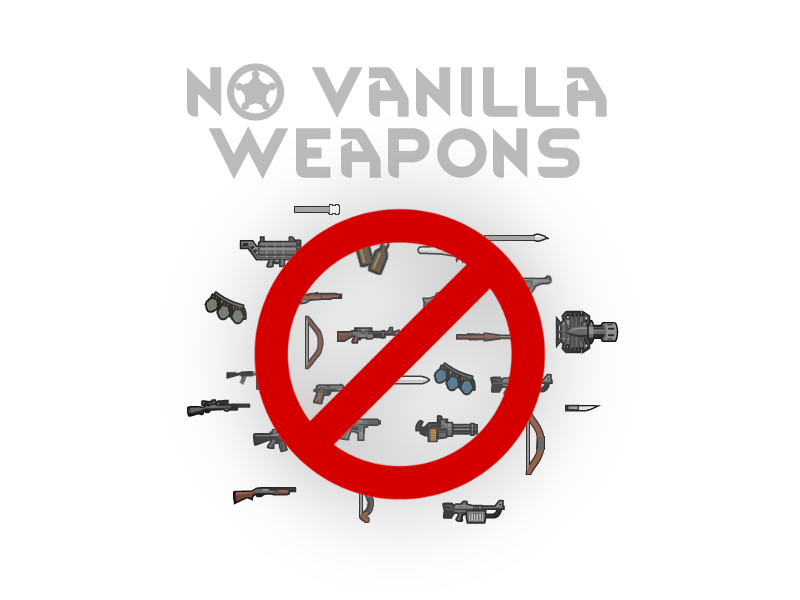
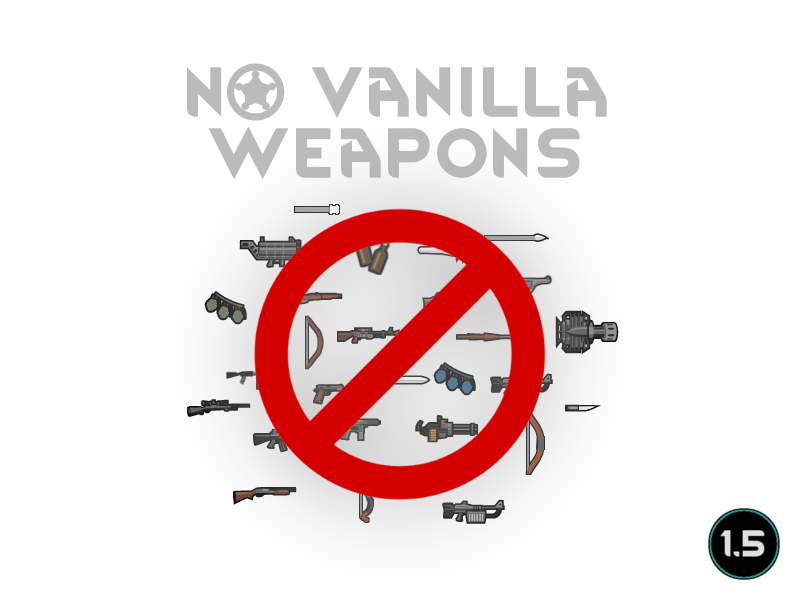
Mod updated for 1.5 and passed autotests

Changed region(s): [[0.875, 0.84, 1.0, 0.99]]

diff --git a/Source/NoVanillaWeapons/NoVanillaWeapons.cs b/Source/NoVanillaWeapons/NoVanillaWeapons.cs
@@ -10,10 +10,10 @@ internal static class NoVanillaWeapons
 {
     static NoVanillaWeapons()
     {
-        var melee = LoadedModManager.GetMod<NoVanillaWeaponsMod>().GetSettings<NoVanillaWeaponsSettings>().Melee;
-        var ranged = LoadedModManager.GetMod<NoVanillaWeaponsMod>().GetSettings<NoVanillaWeaponsSettings>().Ranged;
+        var melee = NoVanillaWeaponsMod.instance.Settings.Melee;
+        var ranged = NoVanillaWeaponsMod.instance.Settings.Ranged;
         var vanillaWeapons = (from ThingDef weapon in DefDatabase<ThingDef>.AllDefsListForReading
-            where weapon is { IsWeapon: true, modContentPack: { IsOfficialMod: true } } &&
+            where weapon is { IsWeapon: true, modContentPack.IsOfficialMod: true } &&
                   (melee || weapon.IsMeleeWeapon != true) && (ranged || weapon.IsRangedWeapon != true) &&
                   !weapon.IsStuff && weapon.weaponTags?.Contains("TurretGun") == false && !weapon.destroyOnDrop
             select weapon).ToList();
@@ -61,7 +61,7 @@ internal static class NoVanillaWeapons
 
         foreach (var weaponRecipe in weaponRecipes)
         {
-            weaponRecipe.factionPrerequisiteTags = new List<string> { "NotForYou" };
+            weaponRecipe.factionPrerequisiteTags = ["NotForYou"];
         }
 
         DefDatabase<RecipeDef>.ResolveAllReferences();

diff --git a/Source/NoVanillaWeapons/NoVanillaWeaponsMod.cs b/Source/NoVanillaWeapons/NoVanillaWeaponsMod.cs
@@ -27,14 +27,13 @@ internal class NoVanillaWeaponsMod : Mod
     {
         instance = this;
         currentVersion =
-            VersionFromManifest.GetVersionFromModMetaData(
-                ModLister.GetActiveModWithIdentifier("Mlie.NoVanillaWeapons"));
+            VersionFromManifest.GetVersionFromModMetaData(content.ModMetaData);
     }
 
     /// <summary>
     ///     The instance-settings for the mod
     /// </summary>
-    private NoVanillaWeaponsSettings Settings
+    public NoVanillaWeaponsSettings Settings
     {
         get
         {

diff --git a/README.md b/README.md
@@ -1,6 +1,6 @@
 # NoVanillaWeapons
 
-![Image](https://i.imgur.com/buuPQel.png)
+![Image](https://i.imgur.com/iCj5o7O.png)
 
 
 If you have any suggestion on more properties to sort on, leave a comment here or on the Discord-server!
@@ -13,24 +13,26 @@ For players that want to only use and find modded weapons.
 
 Base-classes are untouched so they still can be used by mods.
 
-![Image](https://i.imgur.com/O0IIlYj.png)
+![Image](https://i.imgur.com/Ds0rBAD.png)
 
 Since modding is just a hobby for me I expect no donations to keep modding. If you still want to show your support you can gift me anything from my https://store.steampowered.com/wishlist/id/Mlie]Wishlist or buy me a cup of tea.
 
-https://ko-fi.com/G2G55DDYD]![Image](https://i.imgur.com/Utx6OIH.png)
+https://ko-fi.com/G2G55DDYD]![Image](https://i.imgur.com/VWG0yff.png)
 
 
-![Image](https://i.imgur.com/PwoNOj4.png)
+![Image](https://i.imgur.com/5xwDG6H.png)
 
 
 
 -  See if the the error persists if you just have this mod and its requirements active.
 -  If not, try adding your other mods until it happens again.
--  Post your error-log using https://steamcommunity.com/workshop/filedetails/?id=818773962]HugsLib and command Ctrl+F12
+-  Post your error-log using https://steamcommunity.com/workshop/filedetails/?id=818773962]HugsLib or the standalone https://steamcommunity.com/sharedfiles/filedetails/?id=2873415404]Uploader and command Ctrl+F12
 -  For best support, please use the Discord-channel for error-reporting.
 -  Do not report errors by making a discussion-thread, I get no notification of that.
 -  If you have the solution for a problem, please post it to the GitHub repository.
+-  Use https://github.com/RimSort/RimSort/releases/latest]RimSort to sort your mods
 
 
 
+https://steamcommunity.com/sharedfiles/filedetails/changelog/2514935266]![Image](https://img.shields.io/github/v/release/emipa606/NoVanillaWeapons?label=latest%20version&style=plastic&labelColor=0070cd&color=white)
 
